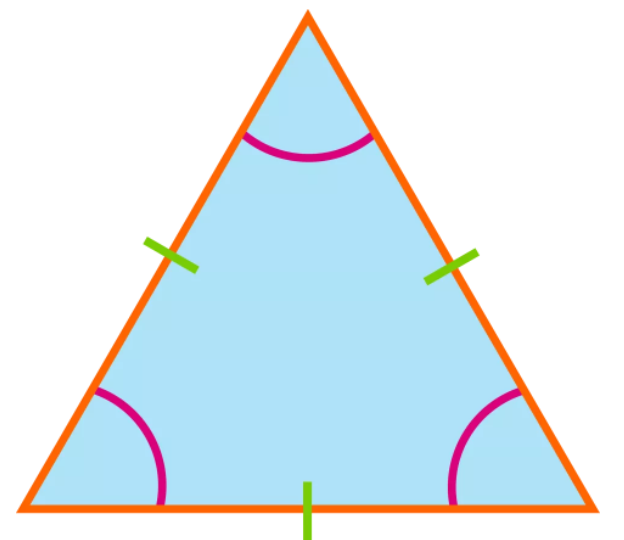
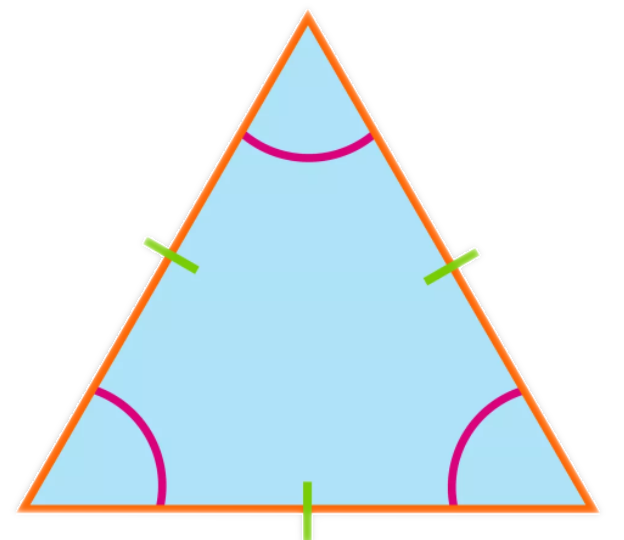
UI update
Created the UI with using proper HTML and CSS to make everything look properly. Also renewed images to have transparent background and fill into the canvas naturally.

diff --git a/AngularPart/app/index.html b/AngularPart/app/index.html
@@ -10,47 +10,118 @@
 
 <html ng-app="myApp" lang="">
 
+
 <head>
     <title>TriangleJS</title>
     <script src="https://ajax.googleapis.com/ajax/libs/angularjs/1.4.3/angular.js"></script>
     <script src="TriangleController.js"></script>
+    <script>
+        function showImage() {
+            document.getElementById('triangleDiv').style.display = "block";}
+    </script>
+
+    <meta name="viewport" content="width=device-width, initial-scale=1">
+    <link rel="stylesheet" href="https://www.w3schools.com/w3css/4/w3.css">
+    <link rel="stylesheet" href="https://fonts.googleapis.com/css?family=Raleway">
+    <style>
+        body,h1 {font-family: "Raleway", sans-serif}
+        body, html {height: 100%}
+        .bgimg {
+            background-image: url('img/triangle.png');
+            min-height: 100%;
+            background-position: center;
+            background-size: cover;
+            background-color: #cccccc;
+        }
+    </style>
 </head>
 
-<body >
-<div ng-app="myApp" ng-controller="TriangleController">
-    <form ng-submit="search()">
-        <div>Enter your triangle sides below: </div>
-        <table>
-            <tr>
-                <td><label>X:
-                    <input type="number" ng-model="x" required/>
-                </label></td>
-            </tr>
-            <tr>
-                <td><label>Y:
-                    <input type="number" ng-model="y" required/>
-                </label></td>
-            </tr>
-            <tr>
-                <td><label>Z:
-                    <input type="number" ng-model="z" required/>
-                </label></td>
-            </tr>
-            <tr>
-                <td><input type="submit" value="Check"></td>
-            </tr>
-        </table>
-    </form>
+<body>
 
-        <div>
-        <p>{{ triangleResult.content }}</p>
-        </div>
-
-    <div>
-        <img alt="triangle" ng-src="{{triangleResult.img()}}" style="height: 100px; width: 100px" />
+<div class="bgimg w3-display-container w3-animate-opacity w3-text-black">
+    <div class="w3-display-topleft w3-padding-large w3-xlarge">
+        Triangle API
     </div>
 
-</div>
+    <div class="w3-display-middle" ng-app="myApp" ng-controller="TriangleController">
+        <h1 class="w3-jumbo w3-animate-top">Check triangle</h1>
+        <hr class="w3-border-grey" style="margin:auto;width:40%">
+        <p class="w3-large w3-center">Enter your triangle sides below</p>
+
+            <form ng-submit="search()" style="alignment: center">
+                <table style="margin-left:auto;margin-right:auto;">
+                    <tr>
+                        <td style="align-self: auto"><label>
+                            <input type="number" ng-model="x" placeholder="X" required/>
+                        </label></td>
+                    </tr>
+                    <tr>
+                        <td><label>
+                            <input type="number" ng-model="y" placeholder="Y" required/>
+                        </label></td>
+                    </tr>
+                    <tr>
+                        <td><label>
+                            <input type="number" ng-model="z" placeholder="Z" required/>
+                        </label></td>
+                    </tr>
+                    <tr class="w3-center">
+                        <td><input type="submit" onclick="showImage()" value="Check"></td>
+                    </tr>
+                </table>
+            </form>
+
+            <div class="w3-large w3-center w3-animate-bottom" style="display: none" id="triangleDiv">
+                <p >{{ triangleResult.content }}</p>
+                <img ng-src="{{triangleResult.img()}}" style=" height: 200px; width: 200px" />
+            </div>
+        </div>
+    </div>
+
+
+
+    <div class="w3-display-bottomleft w3-padding-large">
+        Made by <a href="https://github.com/mfokins" target="_blank">Maksims Fokins</a>
+    </div>
+<!--</div>-->
+
 </body>
+
+<!--<body>-->
+<!--<div ng-app="myApp" ng-controller="TriangleController">-->
+<!--    <form ng-submit="search()">-->
+<!--        <div>Enter your triangle sides below: </div>-->
+<!--        <table>-->
+<!--            <tr>-->
+<!--                <td><label>X:-->
+<!--                    <input type="number" ng-model="x" required/>-->
+<!--                </label></td>-->
+<!--            </tr>-->
+<!--            <tr>-->
+<!--                <td><label>Y:-->
+<!--                    <input type="number" ng-model="y" required/>-->
+<!--                </label></td>-->
+<!--            </tr>-->
+<!--            <tr>-->
+<!--                <td><label>Z:-->
+<!--                    <input type="number" ng-model="z" required/>-->
+<!--                </label></td>-->
+<!--            </tr>-->
+<!--            <tr>-->
+<!--                <td><input type="submit" value="Check"></td>-->
+<!--            </tr>-->
+<!--        </table>-->
+<!--    </form>-->
+
+<!--        <div>-->
+<!--        <p>{{ triangleResult.content }}</p>-->
+<!--        </div>-->
+
+<!--    <div>-->
+<!--        <img alt="triangle" ng-src="{{triangleResult.img()}}" style="height: 100px; width: 100px" />-->
+<!--    </div>-->
+
+<!--</div>-->
+<!--</body>-->
 
 </html>

diff --git a/AngularPart/app/TriangleController.js b/AngularPart/app/TriangleController.js
@@ -20,3 +20,5 @@ var url = 'http://localhost:8080/triangle';
                 });
             };
         }]);
+
+
